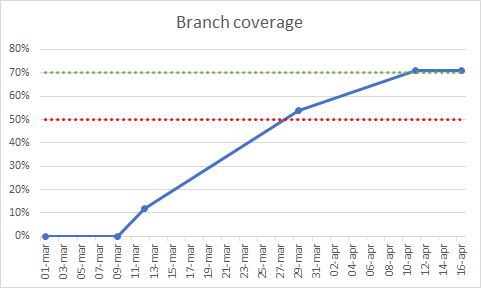
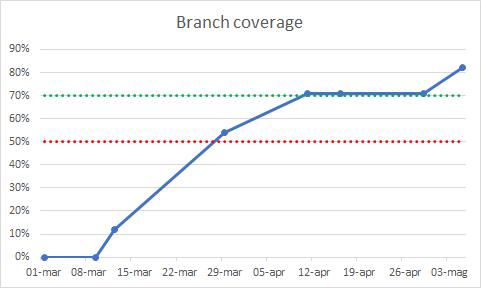
[PdQ] grafici e test

diff --git a/RA/PianoDiQualifica/Res/Sezioni/SpecificaDeiTest.tex b/RA/PianoDiQualifica/Res/Sezioni/SpecificaDeiTest.tex
@@ -441,9 +441,9 @@ Per produrre software di qualità, il gruppo SWEefty definirà dei test per assi
 		TI1 & Test di integrazione tra il lato client e il lato server & \textcolor{green}{Superato} \\ \hline
 		TI2 & Viene verificato che la strategia GraphCleaner funzioni correttamente all'interno di dataCleaner & \textcolor{green}{Superato} \\ \hline
 		TI3 & Viene verificato che la strategia StackCleaner funzioni correttamente all'interno di dataCleaner & \textcolor{green}{Superato} \\ \hline
-		TI4 & Viene verificata l'integrazione tra DataReader e GraphBuilder & \textcolor{green}{Superato} \\ \hline
+		TI4 & Viene verificata l'integrazione tra DataReader e GraphBuilderDirector & \textcolor{green}{Superato} \\ \hline
 		TI5 & Viene verificato che il servizio ElasticsearchClient funzioni correttamente all'interno di DataReader & \textcolor{green}{Superato}  \\ \hline
-		TI6 & Viene verificata l'integrazione tra DataReader e StackBuilder & \textcolor{green}{Superato}  \\ \hline
+		TI6 & Viene verificata l'integrazione tra DataReader e StackBuilderDirector & \textcolor{green}{Superato}  \\ \hline
 				
 	\end{longtable}
     \newcolumntype{U}{>{\centering\arraybackslash}m{10cm}}
@@ -488,6 +488,9 @@ Per produrre software di qualità, il gruppo SWEefty definirà dei test per assi
 		TU17 & Viene verificato che gli archi vengano aggiunti correttamente alla mappa & \textcolor{green}{Superato} \\ \hline
 		TU18 & Viene verificato che i nodi della mappa vengano costruiti correttamente dato un array di richieste HTTP e a database & \textcolor{green}{Superato} \\ \hline
 		TU19 & viene verificato che gli archi della mappa vengano costruiti correttamente dato un array di JSON & \textcolor{green}{Superato} \\ \hline
+		TU20 & viene verificato che i nodi del grafo vengano costruiti correttamente & \textcolor{green}{Superato} \\ \hline
+		TU21 & viene verificato che le trace vengano costruite correttamente & \textcolor{green}{Superato} \\ \hline
+		TU22 & viene verificato che il server ritorni l'indice richiesto con limite e tipo corretti  & \textcolor{green}{Superato} \\ \hline
 		
 		
 	\end{longtable}
@@ -506,23 +509,26 @@ Per produrre software di qualità, il gruppo SWEefty definirà dei test per assi
     	TU3 & Client::dataReader::tracesIndices() \\ \hline
     	TU4 & Client::dataCleaner::removeMetaDataFromIndex() \\ \hline
     	TU5 & Client::dataCleaner::removeMetaDataFromIndices()\\ \hline
-    	TU6 & Client::GraphCleaner::clean() \\ \hline
-    	TU7 & Client::StackCleaner::Data()\\ \hline
+    	TU6 & Client::GraphCleanerStrategy::clean() \\ \hline
+    	TU7 & Client::StackCleanerStrategy::Clean()\\ \hline
     	TU8 & Client::dataCleaner::setStrategy()\\ \hline
-    	TU9 & Client::stackBuilder::checkPageload()\newline 
-    	Client::stackBuilder::checkQueries() \\ \hline
-    	TU10 & Client::stackBuilder::build\_tree() \newline
-    	Client::stackBuilder::more\_data() \newline
-    	Client::stackBuilder::tableToTree() \\ \hline
-    	TU11 & Client::StackBuilder::changeDuration()\\ \hline
-    	TU12 & Client::GraphBuilder::checkIfNodeIsNotPresent() \\ \hline
-    	TU13 & Client::GraphBuilder::checkIfLinkIsNotPresent() \\ \hline
-    	TU14 & Client::GraphBuilder::getIdOfNode() \\ \hline
-    	TU15 & Client::GraphBuilder::getIndexOfSameLink() \\ \hline
-    	TU16 & Client::GraphBuilder::getNodes() \\ \hline
-    	TU17 & Client::GraphBuilder::getLinks() \\ \hline
-    	TU18 & Client::GraphBuilder::getNodes() \\ \hline
-    	TU19 & Client::GraphBuilder::getLinks() \\ \hline
+    	TU9 & Client::Trace::checkPageload()\newline 
+    	Client::Trace::checkQueries() \\ \hline
+    	TU10 & Client::CallTree::constructor() \newline
+    	Client::CallTree::more\_data() \newline
+    	Client::CallTree::tableToTree() \\ \hline
+    	TU11 & Client::Trace::changeDuration()\\ \hline
+    	TU12 & Client::Graph::checkIfNodeIsNotPresent() \\ \hline
+    	TU13 & Client::Graph::checkIfLinkIsNotPresent() \\ \hline
+    	TU14 & Client::Graph::getIdOfNode() \\ \hline
+    	TU15 & Client::Graph::getIndexOfSameLink() \\ \hline
+    	TU16 & Client::Graph::addNode() \\ \hline
+    	TU17 & Client::Graph::addLink() \\ \hline
+    	TU18 & Client::Graph::addNode() \\ \hline
+    	TU19 & Client::Graph::addLink() \\ \hline
+    	TU20 & Client::GraphBuilder::buildNodes() \\ \hline
+    	TU21 & Client::StackBuilder::buildTrace() \\ \hline
+    	TU21 & Server::Index::Index() \\ \hline
     \end{longtable}
 		
 		

diff --git a/RA/PianoDiQualifica/Res/Sezioni/ResocontoAttivitaVerifica.tex b/RA/PianoDiQualifica/Res/Sezioni/ResocontoAttivitaVerifica.tex
@@ -249,23 +249,16 @@
 		\label{SV} 
 	\end{figure}
     \paragraph{Cost variance} \Spazio
-    Questo indice è sempre rimasto all'interno del range di accettazione ma visto che la \emph{Product Baseline} ha richiesto più ore del previsto il suo valore è peggiorato verso la fine di questa fase.
+    Questo indice è sempre rimasto all'interno del range di accettazione maè peggiorato in corrispondenza della stesura della \emph{Product Baseline}
     \begin{figure}[H]
 	\centering 
 	\includegraphics[width=0.7\textwidth]{Images/CV.png}
 	\caption{Serie storica della cost variance}
-	\label{SV} 
+	\label{CV} 
     \end{figure}
-	\paragraph{Rischi non individuati} \Spazio
-	nonostante qualche ritardo nella stesura della \textit{Product Baseline} il gruppo è riuscito a recuperare e a consegnare tutti i documenti nei tempi previsti. 
-	\begin{figure}[H]
-		\centering 
-		\includegraphics[width=0.7\textwidth]{Images/rischiNI.png}
-		\caption{Serie storica dei rischi non individuati}
-		\label{rischi} 
-	\end{figure}
+	
     \paragraph{Requisiti obbligatori soddisfatti} \Spazio
-    Il gruppo in entrata alla \emph{Revisione di Qualifica} è riuscito a soddisfare quasi tutti i requisiti obbligatori previsti dal documento \textit{Analisi dei Requisiti v 2.0.0}.
+    Il gruppo in entrata alla \emph{Revisione di Accettzione} è riuscito a soddisfare tutti i requisiti obbligatori previsti dal documento \textit{Analisi dei Requisiti v 3.0.0}.
     \begin{figure}[H]
     	\centering 
     	\includegraphics[width=0.7\textwidth]{Images/obbl.png}
@@ -313,10 +306,10 @@
     	\label{ciclo} 
     \end{figure}
     \paragraph{Linee di codice per linee di commento} \Spazio
-    Dopo una iniziale carenza di linee di commento il gruppo si è impegnato per portare questo valore in un range accettabile.
+    Dopo una iniziale carenza di linee di commento il gruppo si è impegnato per portare questo valore in un range ottimale.
     \begin{figure}[H]
     	\centering 
-    	\includegraphics[width=0.7\textwidth]{Images/comm.png}
+    	\includegraphics[width=0.7\textwidth]{Images/commento.png}
     	\caption{Serie storica delle linee di codice per linee di commento}
     	\label{comm} 
     \end{figure}
@@ -329,7 +322,7 @@
     	\label{gul} 
     \end{figure}
     \paragraph{Branch coverage} \Spazio
-    I test dinamici in questo momento percorrono la maggior parte dei rami decisionali presenti. 
+    I test dinamici percorrono la maggior parte dei rami decisionali presenti, la percentuale di copertura risulta essere ottimale al momento della consegna. 
     \begin{figure}[H]
     	\centering 
     	\includegraphics[width=0.7\textwidth]{Images/branch.png}
@@ -345,7 +338,7 @@
     	\label{statement} 
     \end{figure}
     \paragraph{Completezza dell'implementazione funzionale} \Spazio
-    Il gruppo ha raggiunto una buona copertura dei requisiti funzionali già in entrata alla \emph{Revisione di Qualifica}.
+    Il gruppo ha raggiunto una buona copertura dei requisiti funzionali per la consegna del prodotto.
     \begin{figure}[H]
     	\centering 
     	\includegraphics[width=0.7\textwidth]{Images/completezza-funzionale.png}
@@ -377,7 +370,7 @@
     	\label{fac} 
     \end{figure}
     \paragraph{Tempo di risposta} \Spazio
-    Il tempo di risposta non è mai fuoriuscito dal range ottimale ma potrebbe nel caso in cui la connessione utilizzata sia lenta.
+    Il tempo di risposta non è mai fuoriuscito dal range ottimale durante le nostre verifiche ma potrebbe nel caso in cui la connessione utilizzata sia lenta.
     \begin{figure}[H]
     	\centering 
     	\includegraphics[width=0.7\textwidth]{Images/risposta.png}

diff --git a/RA/NormeDiProgetto/Res/Sezioni/ProcessiDiSupporto.tex b/RA/NormeDiProgetto/Res/Sezioni/ProcessiDiSupporto.tex
@@ -272,11 +272,6 @@ Indica se si è speso più o meno di quanto è stato previsto.
 
  \textbf{Misurazione: }$CV = BCWS - ACWP$, il minuendo indica il costo pianificato delle attività svolte ad una certa data ed il sottraendo il costo effettivo delle attività svolte a tale data.
 
-\subparagraph{Rischi non individuati} \Spazio
-Indice del numero di rischi non individuati nella fase di analisi:
-
-\textbf{Misurazione: }$SV = BCWP - BCWS$, il minuendo indica le attività svolte finora ed il sottraendo le attività che dovrebbero essere state svolte finora.
-
 \subparagraph{Requisiti obbligatori soddisfatti} \Spazio
 Indica quanti requisiti obbligatori sono stati soddisfatti.
 
